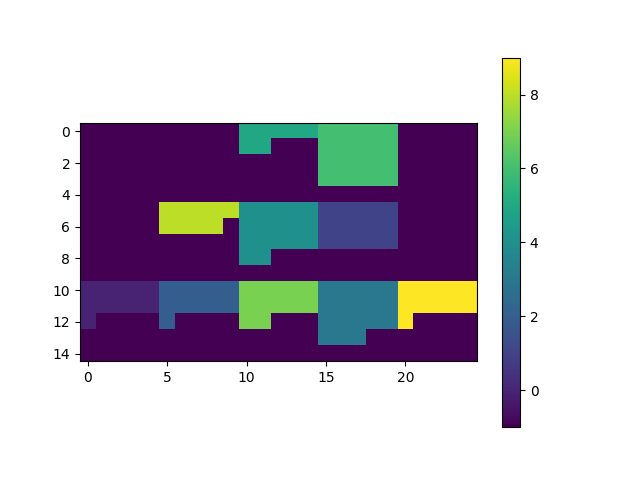
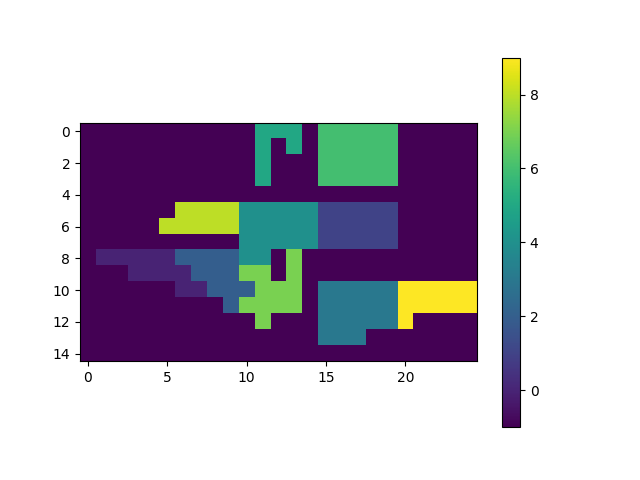
squash working for bottom left corner

diff --git a/TP3-H23/solver.py b/TP3-H23/solver.py
@@ -2,90 +2,151 @@ from problem import Problem, Solution
 from prim import get_root_tree
 from node import TreeNode
 from direction import Direction
+from typing import Tuple
+from indexes import neighbor_indexes, spiral_indexes
+from connexe_graph import ConnexeGraph
+from encloser import Encloser
 import numpy as np
 
 
+class Solver:
+    def __init__(self, problem: Problem):
+        self.problem: Problem = problem
+        self.zoo: np.array = np.empty(shape=(0, 0), dtype=int)
+
+    def solve(self) -> Solution:
+        root: TreeNode = get_root_tree(self.problem)
+        zoo_shape = (4 * self.problem.n, 4 * self.problem.n)
+        self.zoo = -1 * np.ones(shape=zoo_shape, dtype=int)
+
+        self.zoo = root.fill_children(self.zoo, Direction.NORTH)
+        self.zoo = self.shrink_zoo()
+        max_size = self.get_max_size()
+        self.zoo = self.fill_zoo_with_encloser(max_size)
+
+        for _ in range(self.problem.n):
+            self.zoo = self.gravity_pull_towards_center()
+
+        from heatmap import heatmap2d
+
+        heatmap2d(self.zoo)
+        yield Solution(self.zoo, 0)
+
+    def insert_closest_encloser(
+        self, insert_index: Tuple[int, int], middle: np.array
+    ) -> np.array:
+        x, y = insert_index
+        middle_x, middle_y = middle
+        zoo_corners = 0, self.zoo.shape[0] - 1, 0, self.zoo.shape[1] - 1
+
+        if self.zoo[x, y] != -1:
+            return self.zoo
+
+        corners = None
+        if x < middle_x and y < middle_y:
+            corners = 0, x, 0, y
+        elif x < middle_x and y > middle_y:
+            corners = 0, x, y, zoo_corners[3]
+        elif x > middle_x and y < middle_y:
+            corners = x, zoo_corners[1], 0, y
+        elif x > middle_x and y > middle_y:
+            corners = x, zoo_corners[1], y, zoo_corners[3]
+
+        if corners is None:
+            return self.zoo
+
+        for i, j in spiral_indexes(start_index=insert_index, corners=corners):
+            if self.zoo[i, j] != -1:
+                self.zoo[x, y] = self.zoo[i, j]
+                self.zoo[i, j] = -1
+                connexeGraph = ConnexeGraph(
+                    zoo=self.zoo,
+                    encloser=Encloser(
+                        self.zoo[x, y], size=self.problem.size_encloser[self.zoo[x, y]]
+                    ),
+                    index=(x, y),
+                    zoo_corners=zoo_corners,
+                )
+                if connexeGraph.is_connexe():
+                    return self.zoo
+                else:
+                    self.zoo[i, j] = self.zoo[x, y]
+                    self.zoo[x, y] = -1
+
+        return self.zoo
+
+    def encloser_reminds_connected(
+        self,
+        index: Tuple[int, int],
+        zoo_corners: Tuple[int, int, int, int],
+        value: int,
+    ) -> bool:
+        for i, j in neighbor_indexes(index, zoo_corners):
+            if value == self.zoo[i, j]:
+                return True
+        return False
+
+    def gravity_pull_towards_center(self) -> np.array:
+        middle = np.array([self.zoo.shape[0] // 2, self.zoo.shape[1] // 2])
+
+        corners = 0, self.zoo.shape[0] - 1, 0, self.zoo.shape[1] - 1
+
+        for index in spiral_indexes(start_index=middle, corners=corners):
+            self.zoo = self.insert_closest_encloser(index, middle)
+        return self.zoo
+
+    def fill_zoo_with_encloser(self, max_size: int) -> np.array:
+        new_zoo_shape = (self.zoo.shape[0] * max_size, self.zoo.shape[1] * max_size)
+        new_zoo = -1 * np.ones(shape=new_zoo_shape, dtype=int)
+
+        for i in range(self.zoo.shape[0]):
+            for j in range(self.zoo.shape[1]):
+                if self.zoo[i, j] == -1:
+                    continue
+                encloser_number = self.zoo[i, j]
+                encloser_size = self.problem.size_encloser[encloser_number]
+                origin = np.array([i * max_size, j * max_size])
+                for k in range(encloser_size):
+                    new_zoo[
+                        origin[0] + (k // max_size), origin[1] + (k % max_size)
+                    ] = encloser_number
+        return new_zoo
+
+    def get_max_size(self) -> int:
+        max_size = np.max(self.problem.size_encloser)
+        max_size = np.ceil(np.log2(max_size))
+        return int(max_size)
+
+    def shrink_zoo(self) -> np.array:
+        start_row_index = 0
+        for i in range(self.zoo.shape[0]):
+            if np.max(self.zoo[i, :]) != -1:
+                start_row_index = i
+                break
+
+        end_row_index = 0
+        for i in range(self.zoo.shape[0] - 1, -1, -1):
+            if np.max(self.zoo[i, :]) != -1:
+                end_row_index = i
+                break
+
+        start_col_index = 0
+        for i in range(self.zoo.shape[1]):
+            if np.max(self.zoo[:, i]) != -1:
+                start_col_index = i
+                break
+
+        end_col_index = 0
+        for i in range(self.zoo.shape[1] - 1, -1, -1):
+            if np.max(self.zoo[:, i]) != -1:
+                end_col_index = i
+                break
+
+        return self.zoo[
+            start_row_index : end_row_index + 1, start_col_index : end_col_index + 1
+        ]
+
+
 def solve(problem: Problem) -> Solution:
-    # TODO: implement your algorithm here
-    root: TreeNode = get_root_tree(problem)
-    zoo_shape = (4 * problem.n, 4 * problem.n)
-    zoo = -1 * np.ones(shape=zoo_shape, dtype=int)
-
-    zoo = root.fill_children(zoo, Direction.NORTH)
-    zoo = shrink_zoo(zoo)
-    max_size = get_max_size(problem)
-    zoo = fill_zoo_with_encloser(problem, zoo, max_size)
-
-    # zoo = squish_along_axis(zoo, max_size, axis=0)
-
-    from heatmap import heatmap2d
-
-    heatmap2d(zoo)
-    yield Solution(zoo, 0)
-
-
-def squish_along_axis(zoo: np.array, max_size: int, axis: int = 0) -> np.array:
-    for j in range(zoo.shape[axis] // max_size):
-        inspect_index = 0
-        insert_index = 0
-        origin = j * max_size
-        while inspect_index < zoo.shape[axis]:
-            if np.max(zoo[inspect_index, origin : origin + max_size]) != -1:
-                for k in range(max_size):
-                    zoo[insert_index, origin + k] = zoo[inspect_index, origin + k]
-                    zoo[inspect_index, origin + k] = -1
-                insert_index += 1
-            inspect_index += 1
-    return zoo
-
-
-def fill_zoo_with_encloser(problem: Problem, zoo: np.array, max_size: int) -> np.array:
-    new_zoo_shape = (zoo.shape[0] * max_size, zoo.shape[1] * max_size)
-    new_zoo = -1 * np.ones(shape=new_zoo_shape, dtype=int)
-
-    for i in range(zoo.shape[0]):
-        for j in range(zoo.shape[1]):
-            if zoo[i, j] == -1:
-                continue
-            encloser_number = zoo[i, j]
-            encloser_size = problem.size_encloser[encloser_number]
-            origin = np.array([i * max_size, j * max_size])
-            for k in range(encloser_size):
-                new_zoo[
-                    origin[0] + (k // max_size), origin[1] + (k % max_size)
-                ] = encloser_number
-    return new_zoo
-
-
-def get_max_size(problem: Problem) -> int:
-    max_size = np.max(problem.size_encloser)
-    max_size = np.ceil(np.log2(max_size))
-    return int(max_size)
-
-
-def shrink_zoo(zoo: np.array) -> np.array:
-    start_row_index = 0
-    for i in range(zoo.shape[0]):
-        if np.max(zoo[i, :]) != -1:
-            start_row_index = i
-            break
-
-    end_row_index = 0
-    for i in range(zoo.shape[0] - 1, -1, -1):
-        if np.max(zoo[i, :]) != -1:
-            end_row_index = i
-            break
-
-    start_col_index = 0
-    for i in range(zoo.shape[1]):
-        if np.max(zoo[:, i]) != -1:
-            start_col_index = i
-            break
-
-    end_col_index = 0
-    for i in range(zoo.shape[1] - 1, -1, -1):
-        if np.max(zoo[:, i]) != -1:
-            end_col_index = i
-            break
-
-    return zoo[start_row_index : end_row_index + 1, start_col_index : end_col_index + 1]
+    solver = Solver(problem)
+    yield from solver.solve()

diff --git a/TP3-H23/indexes.py b/TP3-H23/indexes.py
@@ -1,0 +1,74 @@
+from typing import Tuple, Optional
+from direction import Direction
+import numpy as np
+
+
+def neighbor_indexes(
+    index: Tuple[int, int], zoo_corners: Tuple[int, int, int, int]
+) -> Tuple[int, int]:
+    min_y, max_y, min_x, max_x = zoo_corners
+
+    for direction in [Direction.NORTH, Direction.SOUTH, Direction.EAST, Direction.WEST]:
+        i, j = index + direction
+        if i < min_x or i > max_x or j < min_y or j > max_y:
+            continue
+        yield i, j
+
+
+def spiral_indexes(
+    start_index: np.array,
+    corners: Tuple[int, int, int, int],
+    max_radius: Optional[int] = None,
+) -> Tuple[int, int]:
+    radius = np.array([0, 0])
+    min_y, max_y, min_x, max_x = corners
+    stop_condition = False
+    if max_radius is None:
+        max_radius = np.inf
+    while not stop_condition and radius[0] <= max_radius and radius[1] <= max_radius:
+        bottom, left = start_index - radius
+        top, right = start_index + radius
+        do_bottom = True
+        do_top = True
+        do_left = True
+        do_right = True
+        if bottom < min_y and left < min_x and top > max_y and right > max_x:
+            stop_condition = True
+        if left < min_x:
+            left = min_x
+            do_left = False
+        if top > max_y:
+            top = max_y
+            do_top = False
+        if right > max_x:
+            right = max_x
+            do_right = False
+        if bottom < min_y:
+            bottom = min_y
+            do_bottom = False
+
+        if do_bottom:
+            insert_index = bottom, left
+            while insert_index[1] <= right:
+                yield insert_index
+                insert_index = insert_index[0], insert_index[1] + 1
+
+        if do_right:
+            insert_index = bottom, right
+            while insert_index[0] <= top:
+                yield insert_index
+                insert_index = insert_index[0] + 1, insert_index[1]
+
+        if do_top:
+            insert_index = top, right
+            while insert_index[1] >= left:
+                yield insert_index
+                insert_index = insert_index[0], insert_index[1] - 1
+
+        if do_left:
+            insert_index = top, left
+            while insert_index[0] >= bottom:
+                yield insert_index
+                insert_index = insert_index[0] - 1, insert_index[1]
+
+        radius += 1

diff --git a/TP3-H23/connexe_graph.py b/TP3-H23/connexe_graph.py
@@ -1,0 +1,43 @@
+import numpy as np
+from encloser import Encloser
+from typing import Optional, Tuple
+from direction import Direction
+from indexes import neighbor_indexes
+
+
+class ConnexeGraph:
+    def __init__(
+        self,
+        zoo: np.array,
+        encloser: Encloser,
+        index: Tuple[int, int],
+        zoo_corners: Tuple[int, int, int, int],
+    ):
+        self.zoo: np.array = zoo
+        self.connexe: Optional[bool] = False
+        self.visited: np.array = np.zeros_like(self.zoo, dtype=bool) * False
+        self.queue: list = []
+        self.encloser: Encloser = encloser
+        self.start: Tuple[int, int] = index
+        self.zoo_corners: Tuple[int, int, int, int] = zoo_corners
+
+    def bfs(self):
+        self.count: int = 1
+        self.queue.append(self.start)
+        self.visited[self.start] = True
+        while self.queue:
+            node = self.queue.pop(0)
+            for neighbor in neighbor_indexes(node, self.zoo_corners):
+                if (
+                    self.zoo[neighbor] == self.encloser.encloser_number
+                    and not self.visited[neighbor]
+                ):
+                    self.queue.append(neighbor)
+                    self.count += 1
+                    self.visited[neighbor] = True
+        if self.count >= self.encloser.size:
+            self.connexe = True
+
+    def is_connexe(self) -> bool:
+        self.bfs()
+        return self.connexe

diff --git a/TP3-H23/encloser.py b/TP3-H23/encloser.py
@@ -1,16 +1,4 @@
-from typing import List, Tuple, Optional
-
-
-class Encloser:
-    pass
-
-
 class Encloser:
     def __init__(self, encloser_number: int, size: int) -> None:
-        self.encloser_number = encloser_number
-        self.size = size
-        self.coordinates = None
-
-    def set_coordinate(self, coordinates: List[Tuple[int, int]]) -> Encloser:
-        self.coordinates = coordinates
-        return self
+        self.encloser_number: int = encloser_number
+        self.size: int = size
